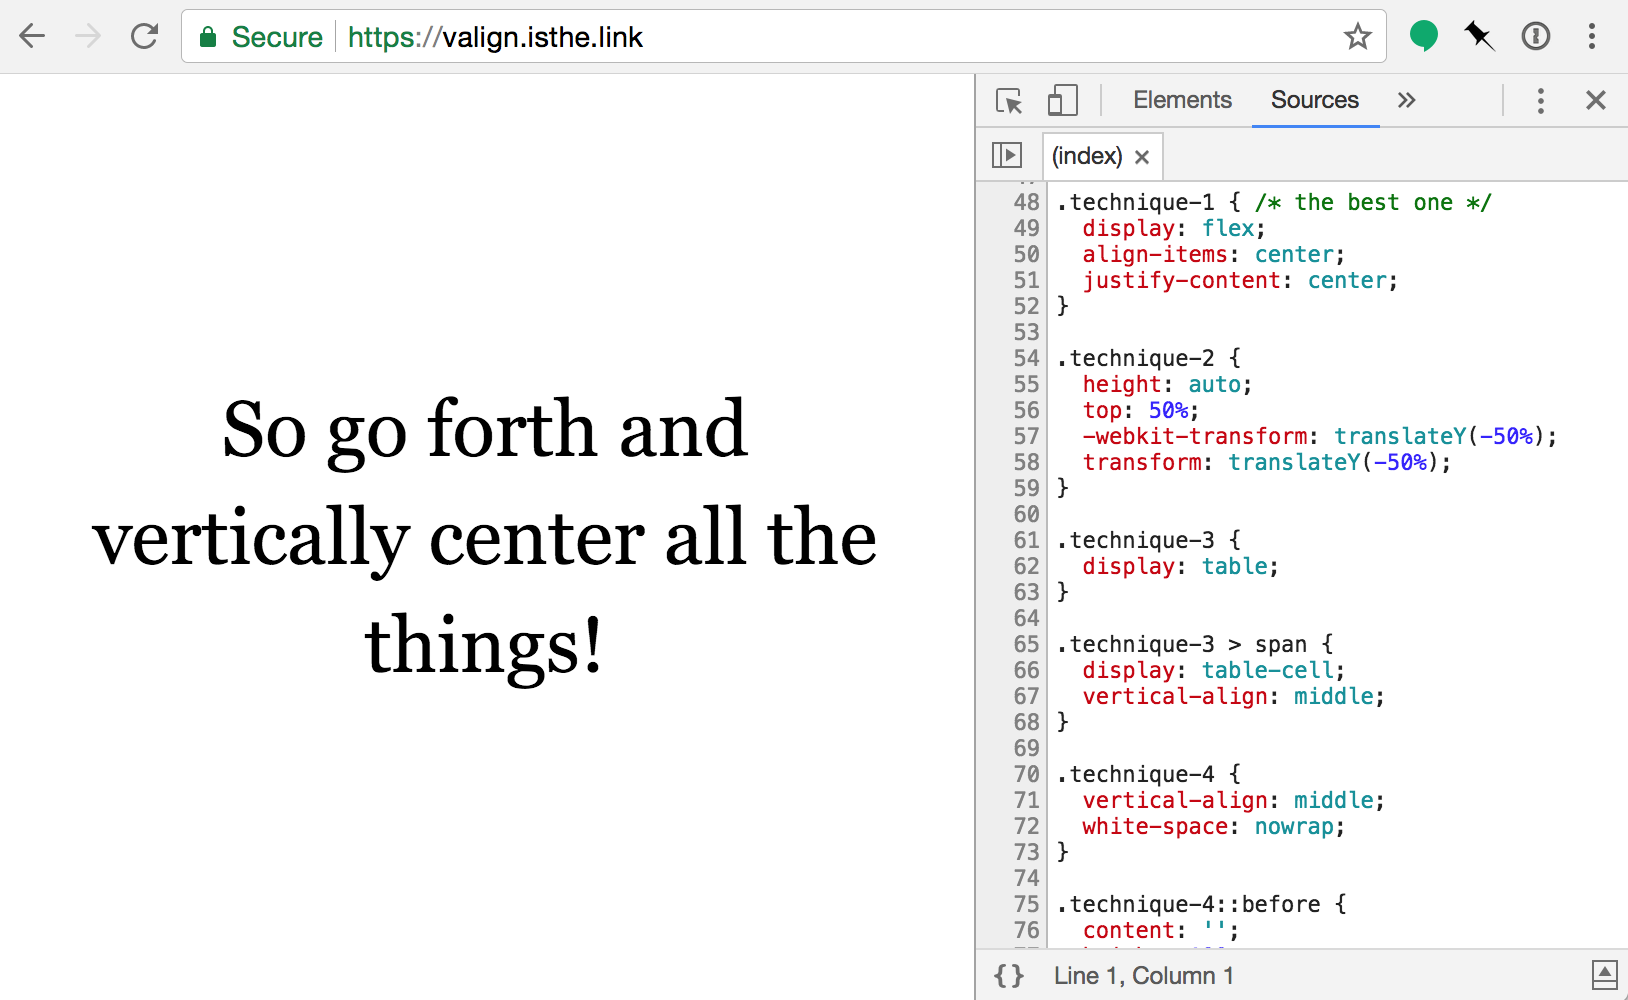
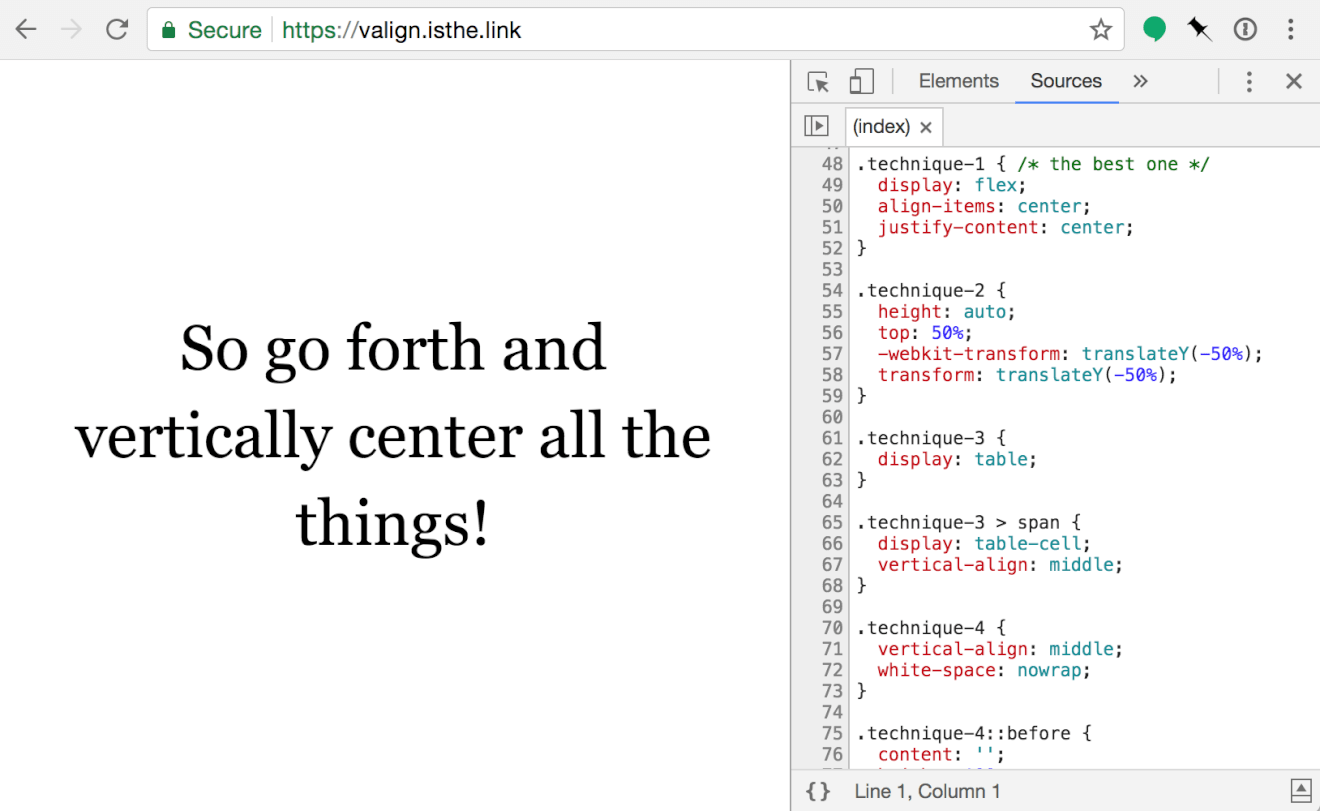
add more projects + compress images

diff --git a/static/css/index.css b/static/css/index.css
@@ -10,7 +10,7 @@ html {
 
 body {
   height: 100%;
-  margin: 0;
+  margin: 0 20px;
   font-family: -apple-system, BlinkMacSystemFont, 'Segoe UI', 'Roboto', 'Oxygen',
     'Ubuntu', 'Cantarell', 'Fira Sans', 'Droid Sans', 'Helvetica Neue',
     sans-serif;
@@ -89,6 +89,16 @@ h3 {
 .Project .title:before {
   font-weight: normal;
   content: '# ';
-  margin-left: -2ch;
   color: #ccc;
 }
+
+@media screen and (min-width: 680px) {
+  body {
+    margin: 0;
+  }
+
+  .Project .title:before {
+    margin-left: -2ch;
+  }
+}
+

diff --git a/projects.js b/projects.js
@@ -1,7 +1,17 @@
 export default [
   {
+    id: 'binary',
+    description: 'Visualising tool for bits and signs',
+    repo: 'remy/binary.isthe.link',
+  },
+  {
+    id: 'ip2tz',
+    description: 'Referring IP address to timezone API',
+    repo: 'remy/ip2tz',
+  },
+  {
     id: 'viewer',
-    description: 'Quick filterable view on all your npm packages',
+    description: 'Image slideshow and picker for downloading',
     repo: 'remy/viewer.isthe.link',
   },
   {
